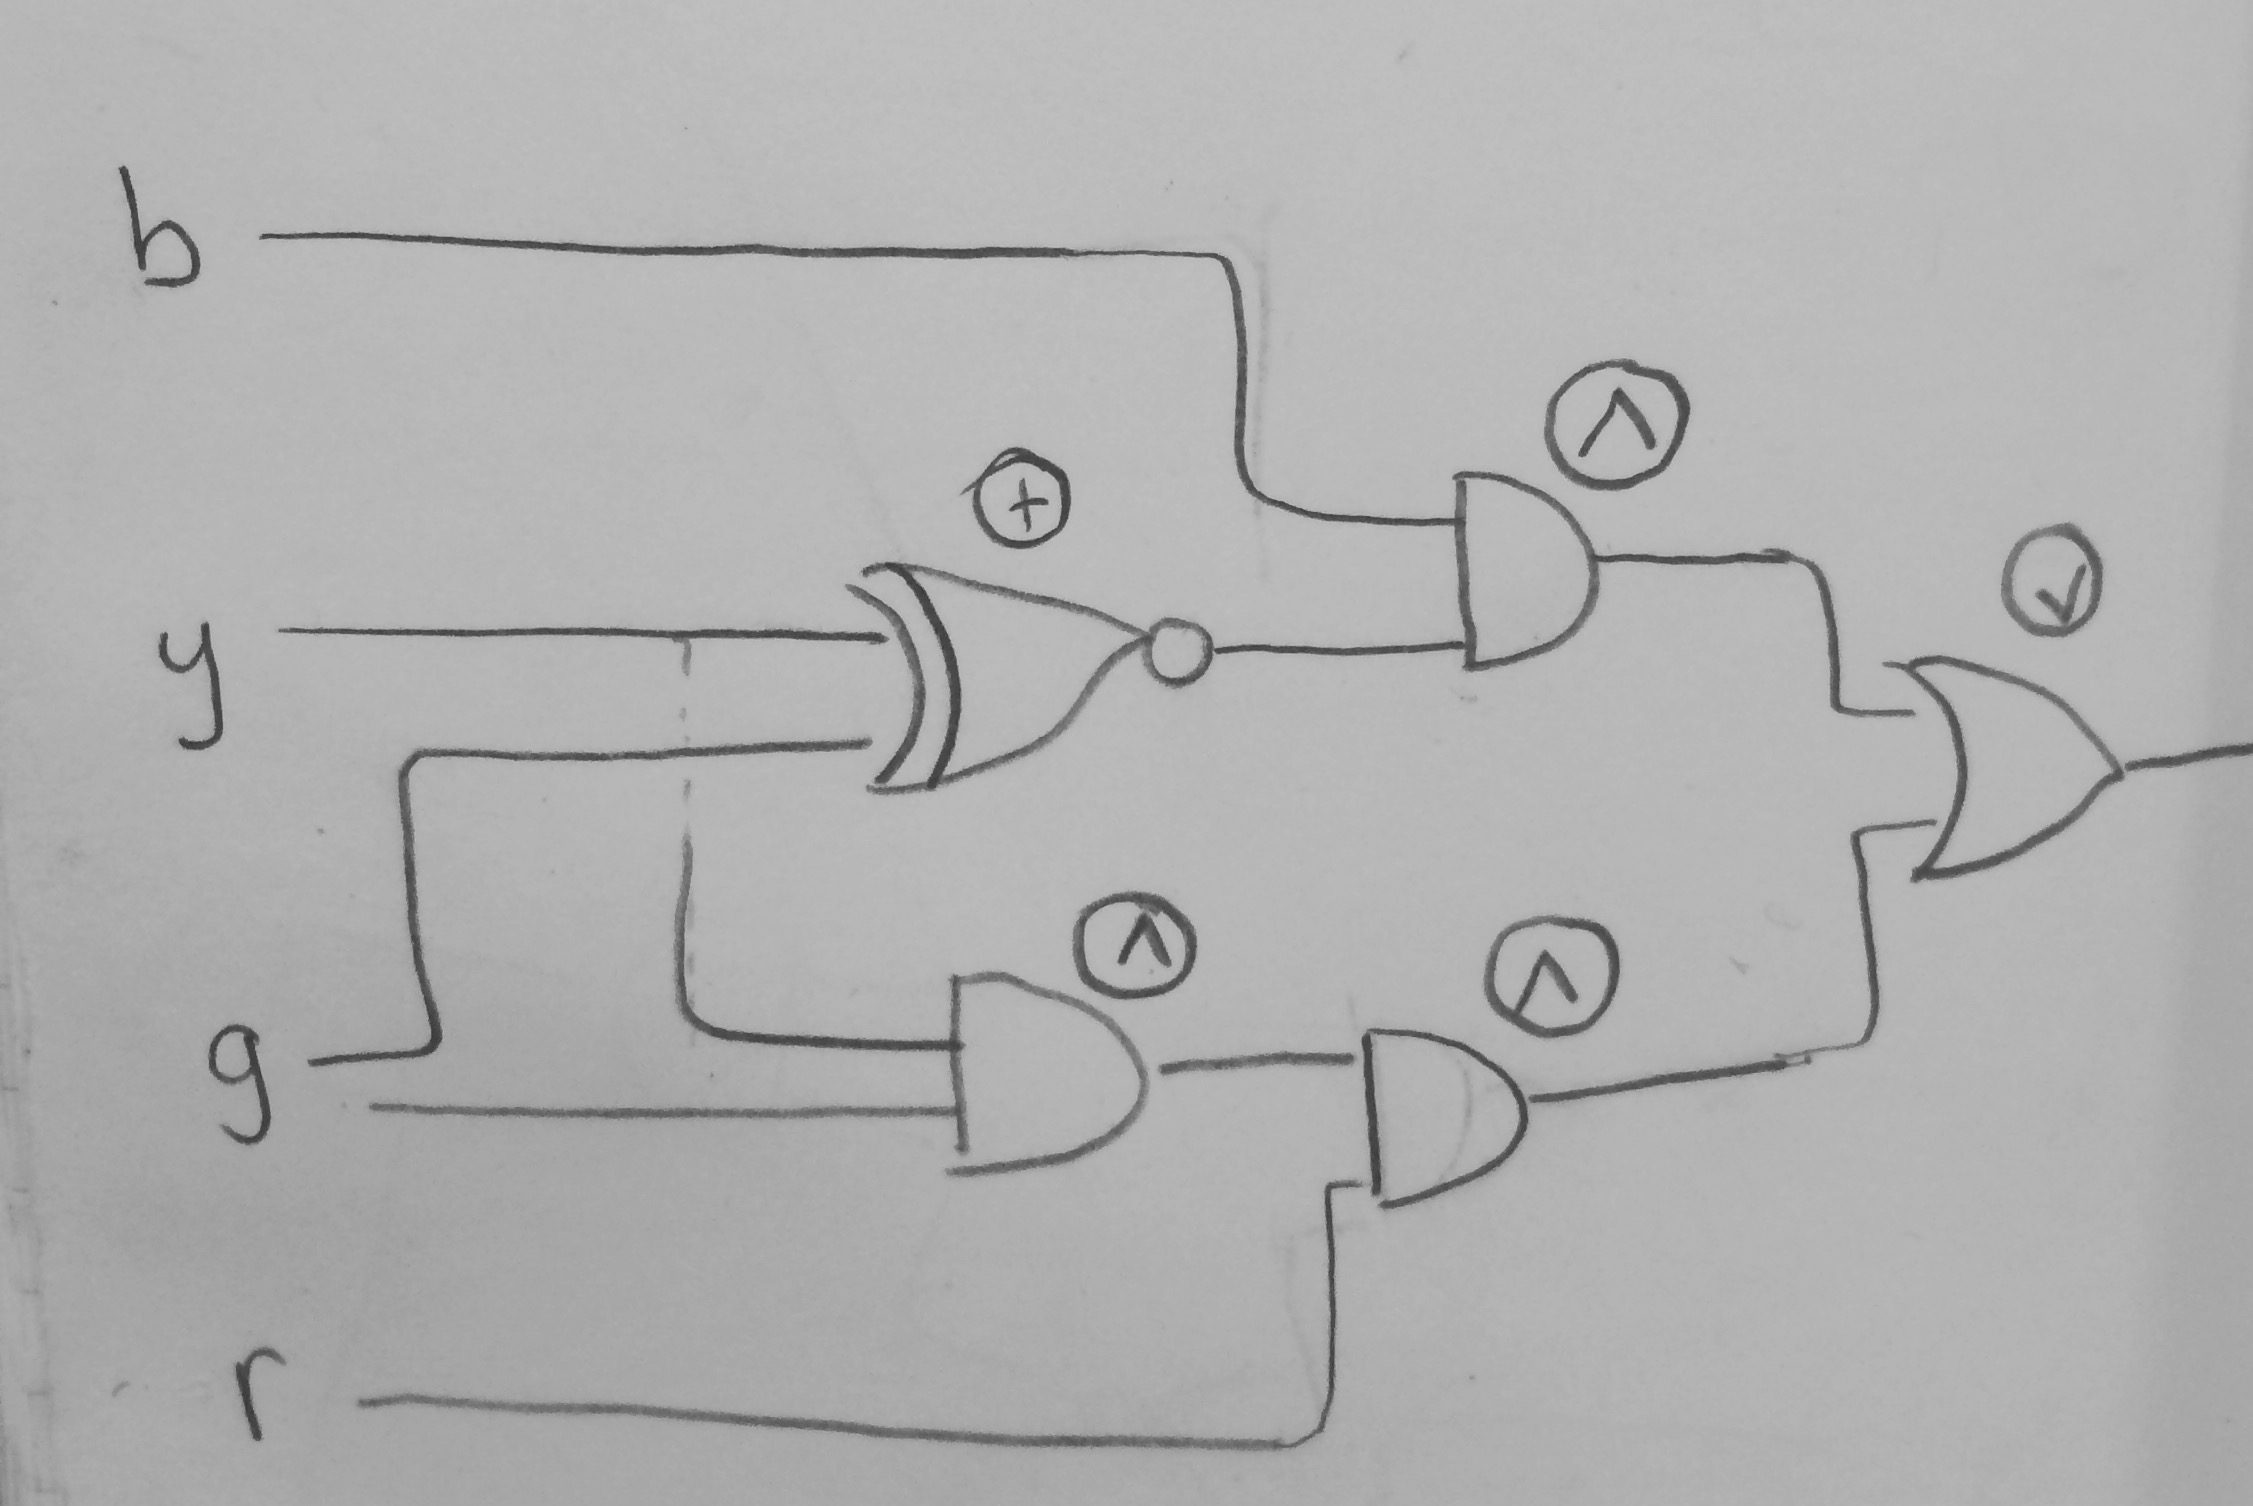
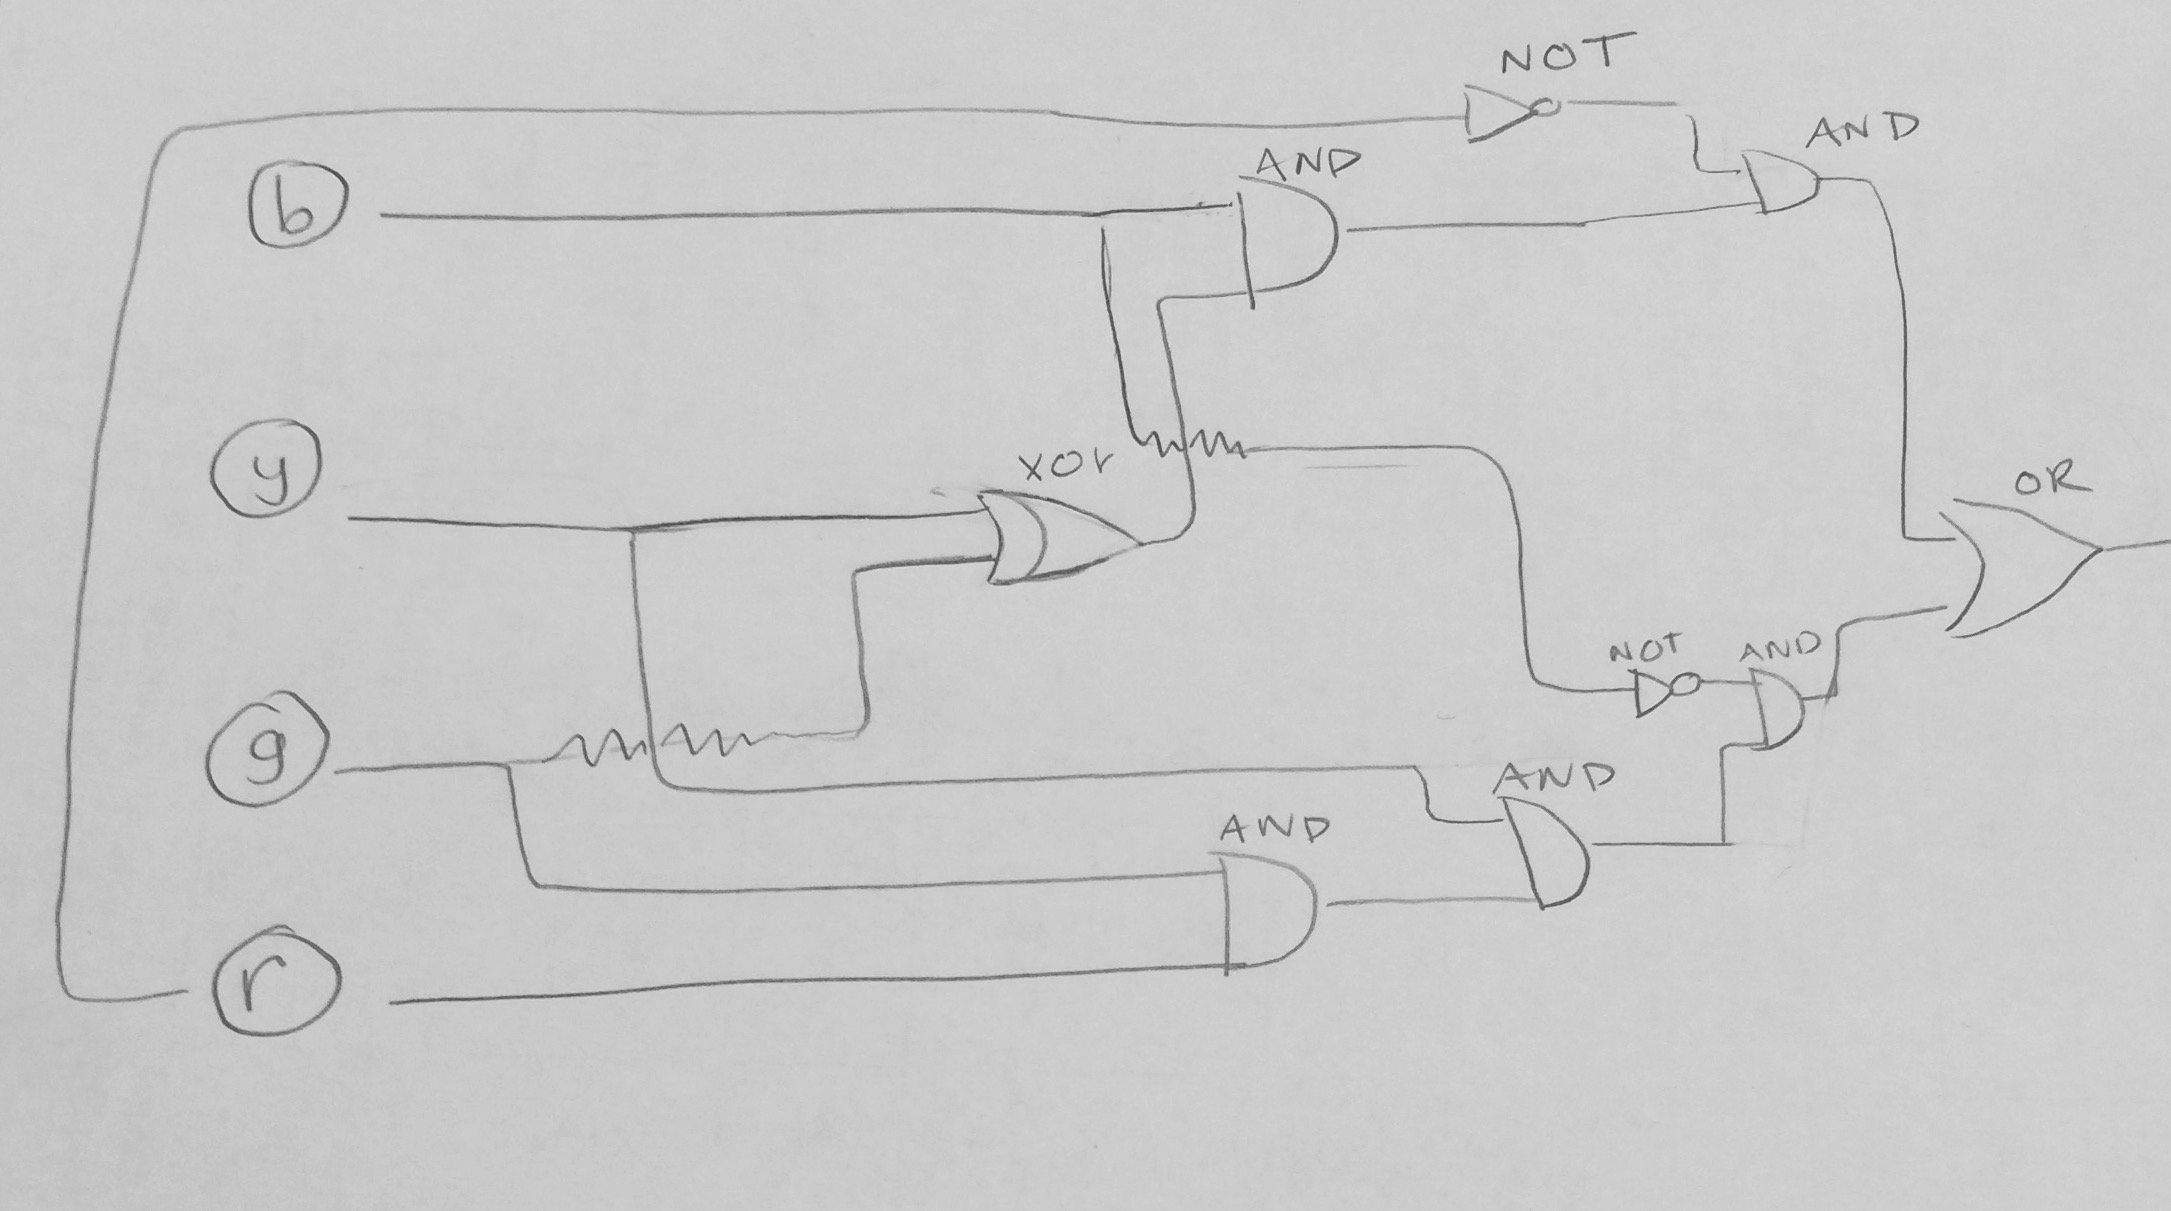
pset 3 solutions updated

diff --git a/psets/ps3/ps3s.tex b/psets/ps3/ps3s.tex
@@ -64,12 +64,12 @@ Luckily, Harry sees all the colored bottles. Define r, y, b, g:
 
 \begin{solution}
 
-\subsolution $(r \land y \land g) \lor (b \land (y \oplus g))$
+\subsolution $(r \land y \land g \land \lnot b) \lor (b \land (y \oplus g) \land \lnot r)$
+There are also other correct ways to write this expression. 
 
-could also do 
-$(r \land y \land g) \lor (b \land y) \lor (b \land g)$
 \subsolution 
 \includegraphics[width=3in]{LogicGate.jpg}
+There are other correct circuits as well. 
 
 \end{solution}
 
